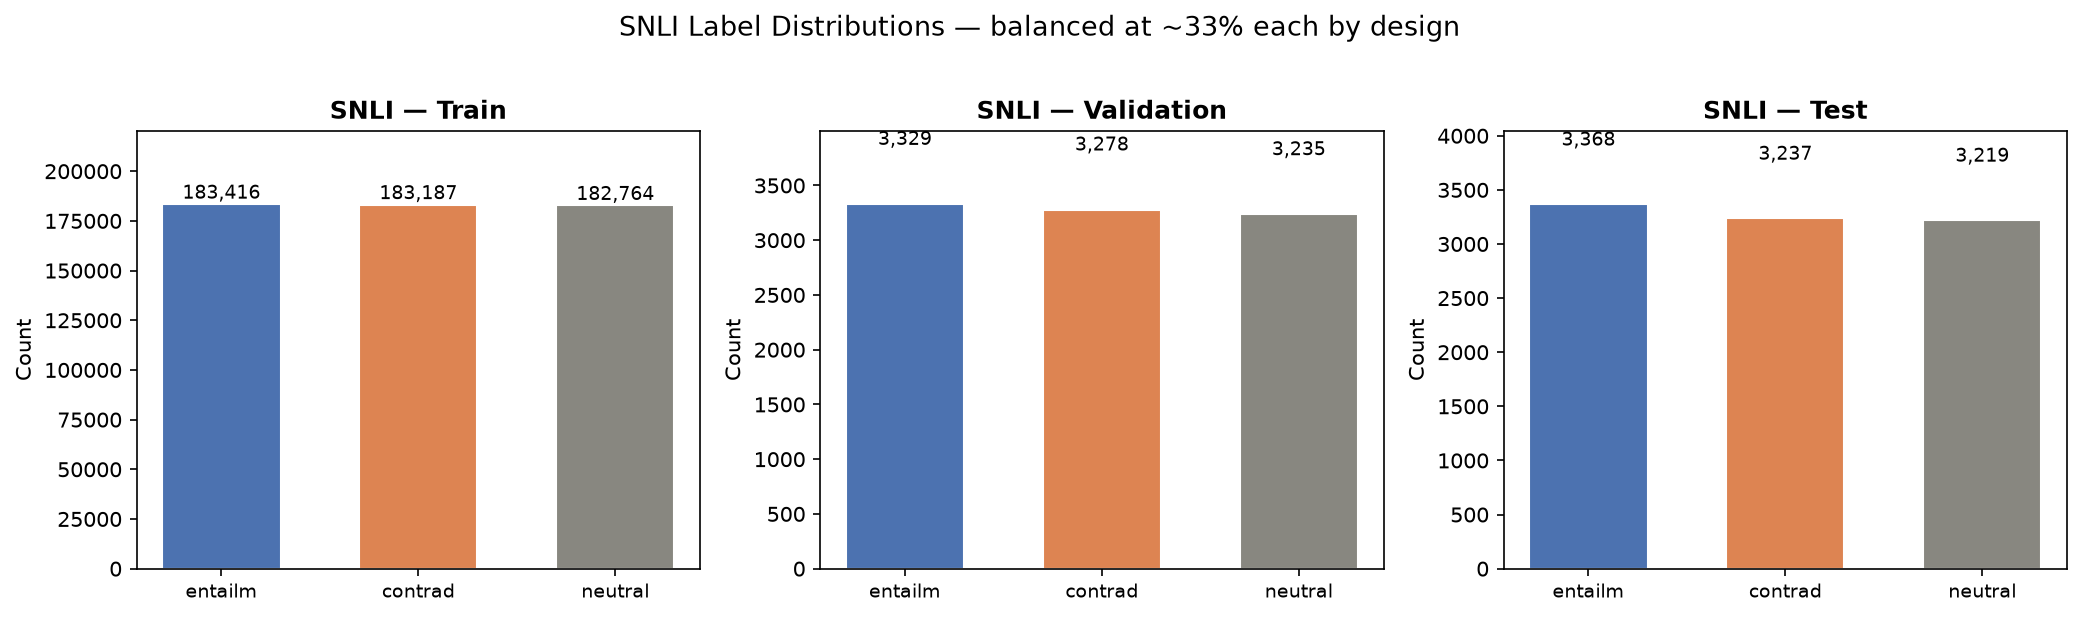
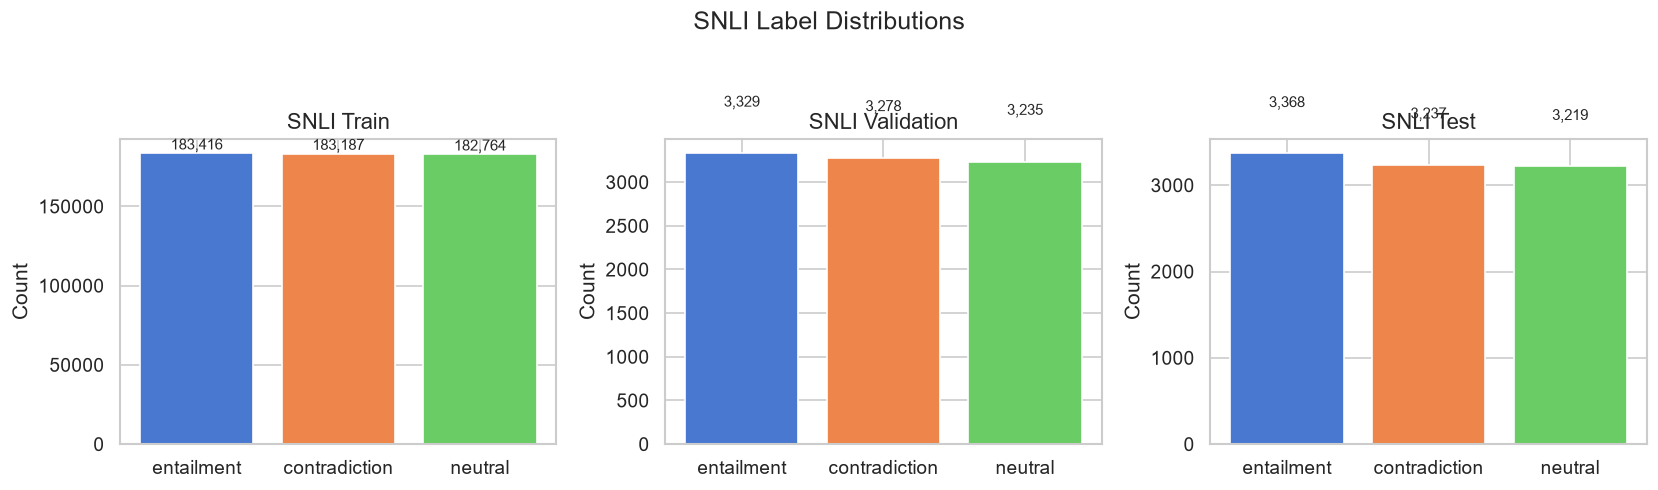
Add results from full training run
DistilBERT: 87.0% SNLI test, 50.1% HANS (0.7% on non-entailment)

diff --git a/README.md b/README.md
@@ -19,15 +19,27 @@ A model that scores well on SNLI but fails the non-entailment cases in HANS is r
 
 ## Results
 
-<!-- Fill in from your own run. Example layout: -->
+**DistilBERT reaches 87.0% on SNLI but only 50.1% on HANS, which is chance level.** It labelled 14,892 of the 15,000 HANS non-entailment pairs as "entailment": it has learned that shared words mean entailment rather than learning what the sentences mean.
 
-| Model | SNLI test accuracy | HANS accuracy | HANS non-entailment accuracy |
-|---|---|---|---|
-| TF-IDF + Logistic Regression | | | |
-| TF-IDF + Linear SVM | | | |
-| DistilBERT (SNLI) | | | |
+| Model | SNLI test accuracy | HANS accuracy |
+|---|---|---|
+| TF-IDF + Logistic Regression | 74.0% | 49.7% |
+| TF-IDF + Linear SVM | 74.7% | 49.5% |
+| DistilBERT (fine-tuned on SNLI) | **87.0%** | **50.1%** |
 
-![SNLI label distribution](figures/snli_label_distribution.png)
+![SNLI vs HANS accuracy by model](figures/model_comparison.png)
+
+DistilBERT's HANS accuracy split by heuristic and gold label: near-perfect when the shortcut points to the right answer (entailment) and near zero when it doesn't (non-entailment).
+
+| Heuristic | Entailment | Non-entailment |
+|---|---|---|
+| Lexical overlap | 100.0% | 0.0% |
+| Subsequence | 99.8% | 0.5% |
+| Constituent | 98.6% | 1.6% |
+
+![DistilBERT HANS accuracy by heuristic and label](figures/heuristic_heatmap.png)
+
+Results come from a single run (seed 42) on CPU: 3 epochs, best validation accuracy 87.8%.
 
 ## Run it
 
